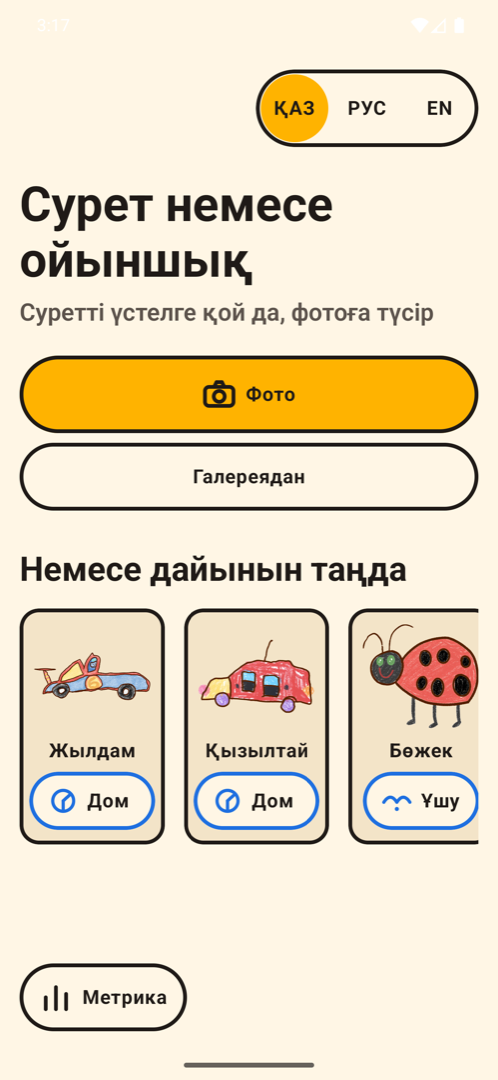
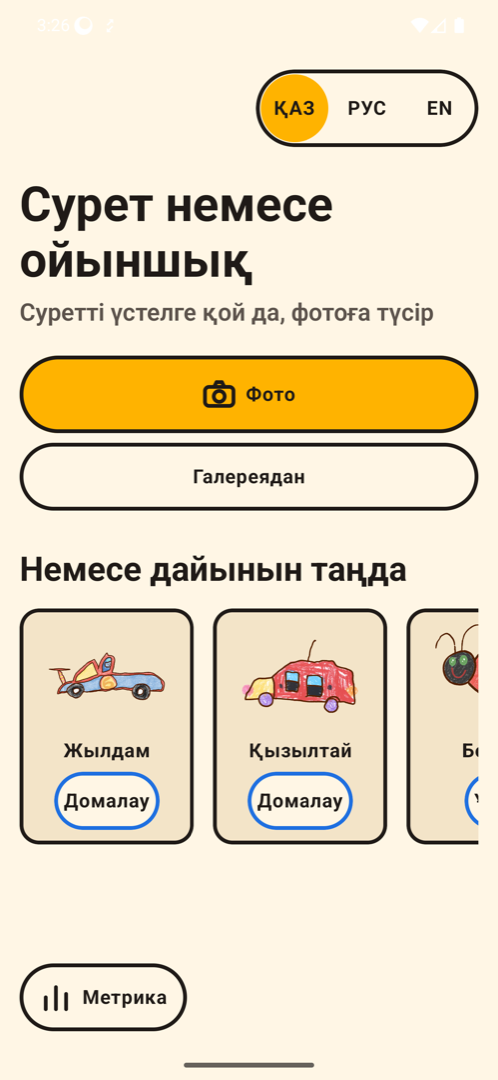
docs/evidence: Capture kk after the chip fix; day3-human notes what the emulator already verified

Changed region(s): [[0.0602, 0.55, 0.9639, 0.7944], [0.1506, 0.0, 0.1807, 0.0306]]

diff --git a/ai/day3-human.md b/ai/day3-human.md
@@ -42,6 +42,13 @@ strategy changes (re-anchor on a large correction is the fallback; not implement
 12. Footprints toggle on → the ARCore Rec button appears at the right edge; off → gone.
 13. Language switch KK/RU/EN on Capture only; the Processing "Done!" shows the sprite at 160 dp.
 
+## 3b. Already verified on the Pixel 7 Pro emulator (Oct 29, docs/evidence/ui-2026-10-29-*.png)
+- Capture kk/ru/en, bundled cards with real sprites and full ability labels, Metrics empty state, the paper camera
+  permission screen, system Back from Metrics returns to Capture, `bundled=16 bundled_ms=465` at cold start. No crashes.
+- Not possible on the emulator: anything with ARCore (Scanning/Play), the camera, the pipeline (no key in that build).
+- Known, left as is: the language choice is not persisted across a process restart (plain state); Scanning draws its
+  chips over the permission screen until the camera is allowed.
+
 ## 4. Housekeeping only you can do
 - Two stale agent worktrees are clean and safe to delete (blocked for the agent as destructive):
   ```
